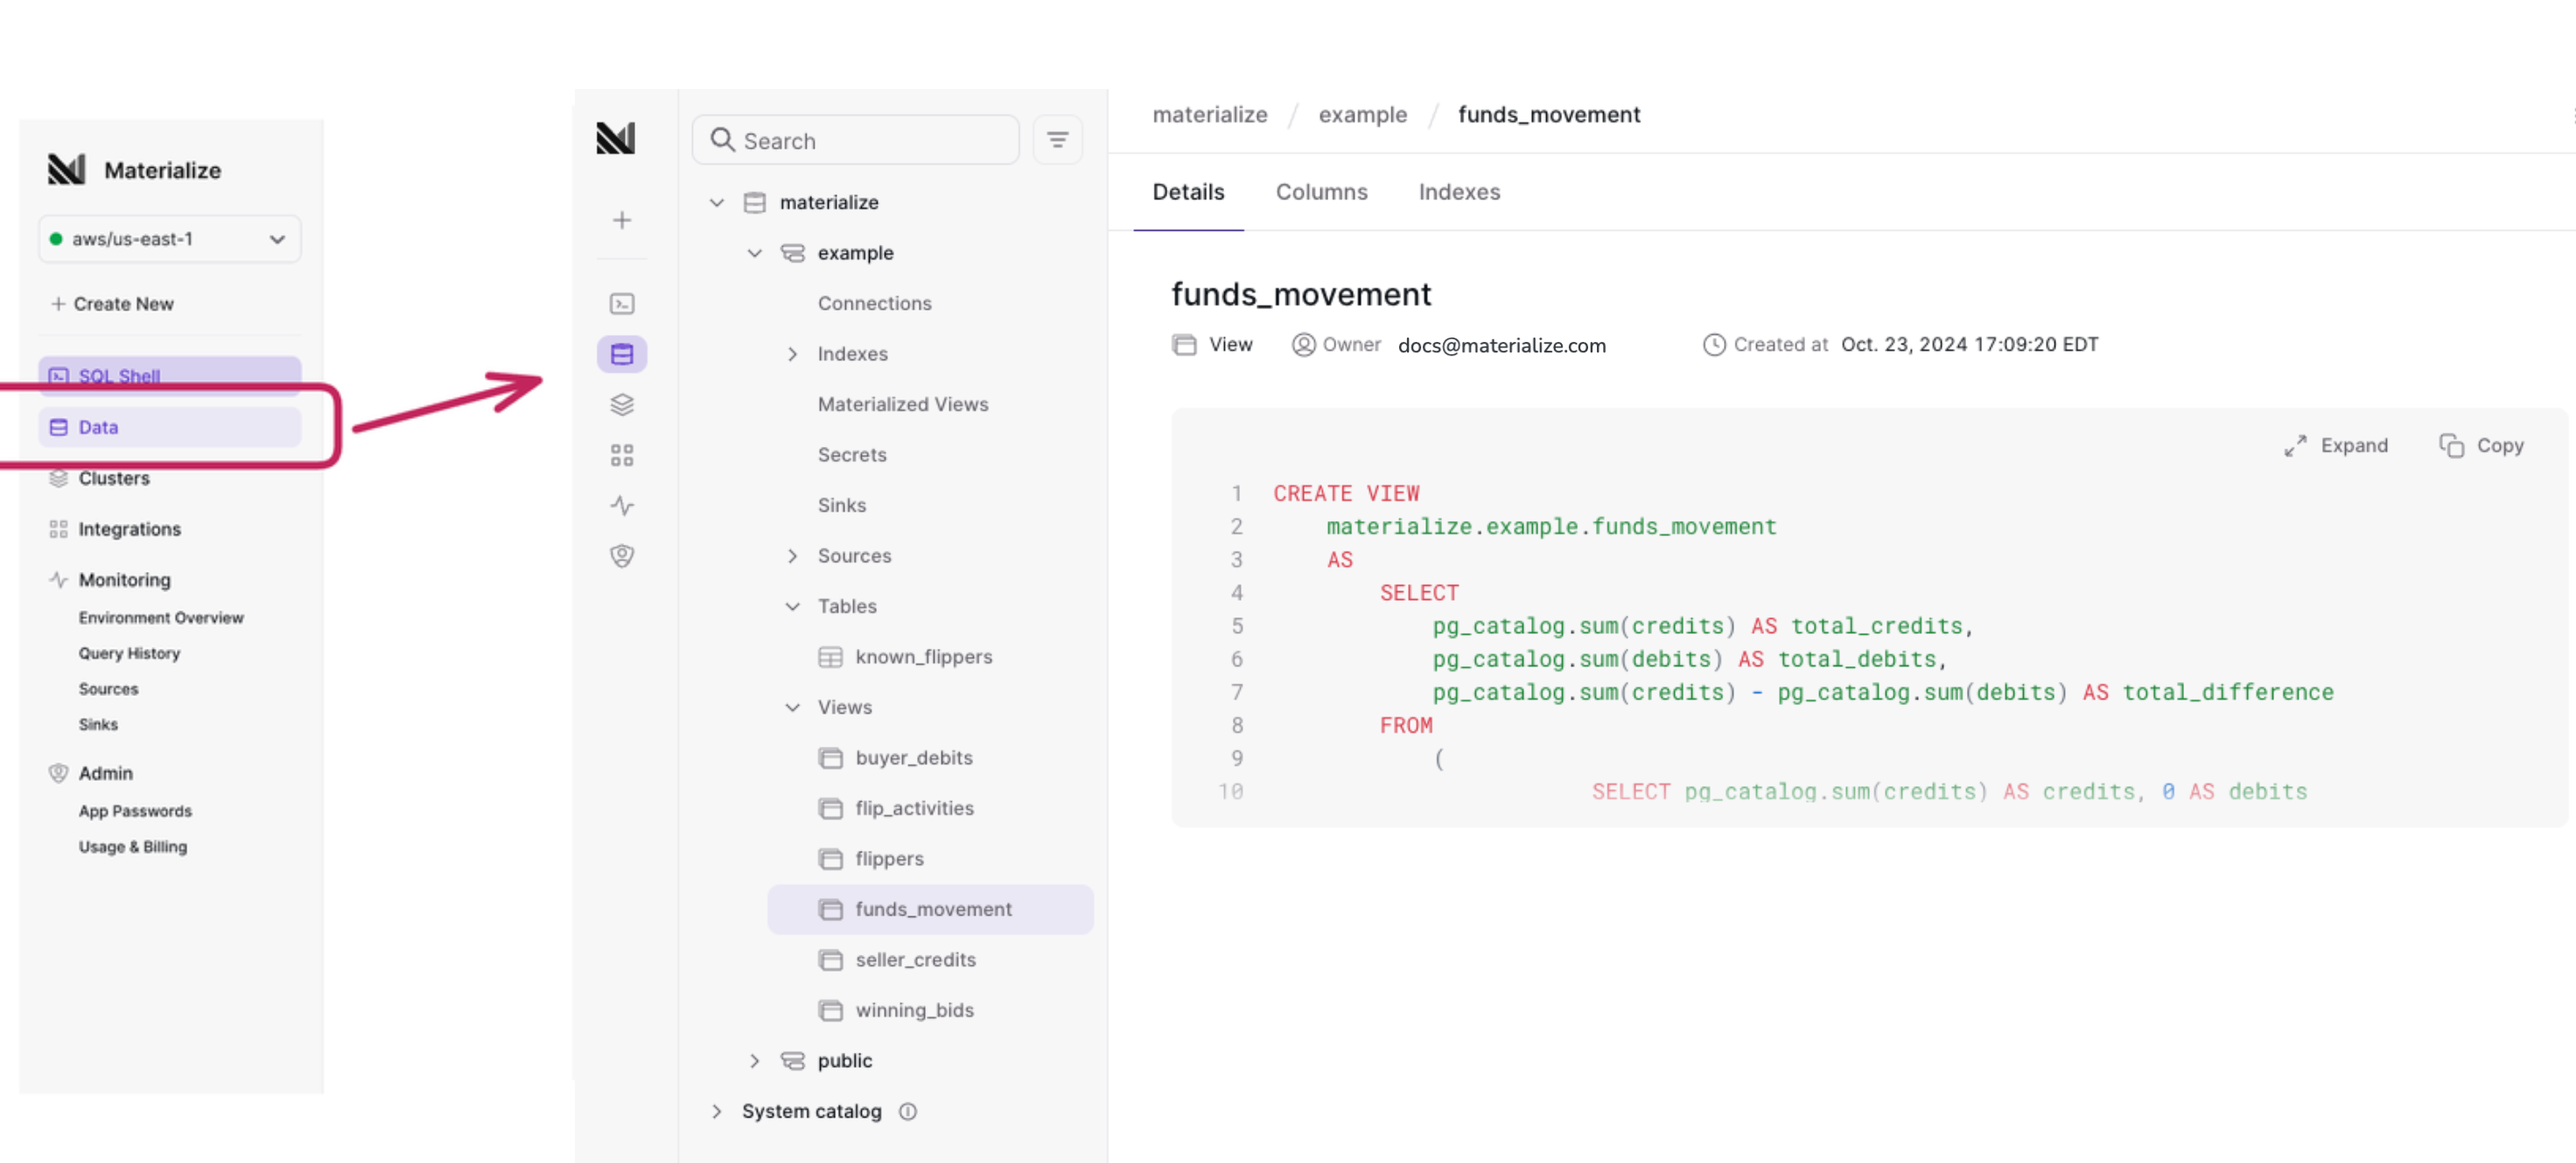
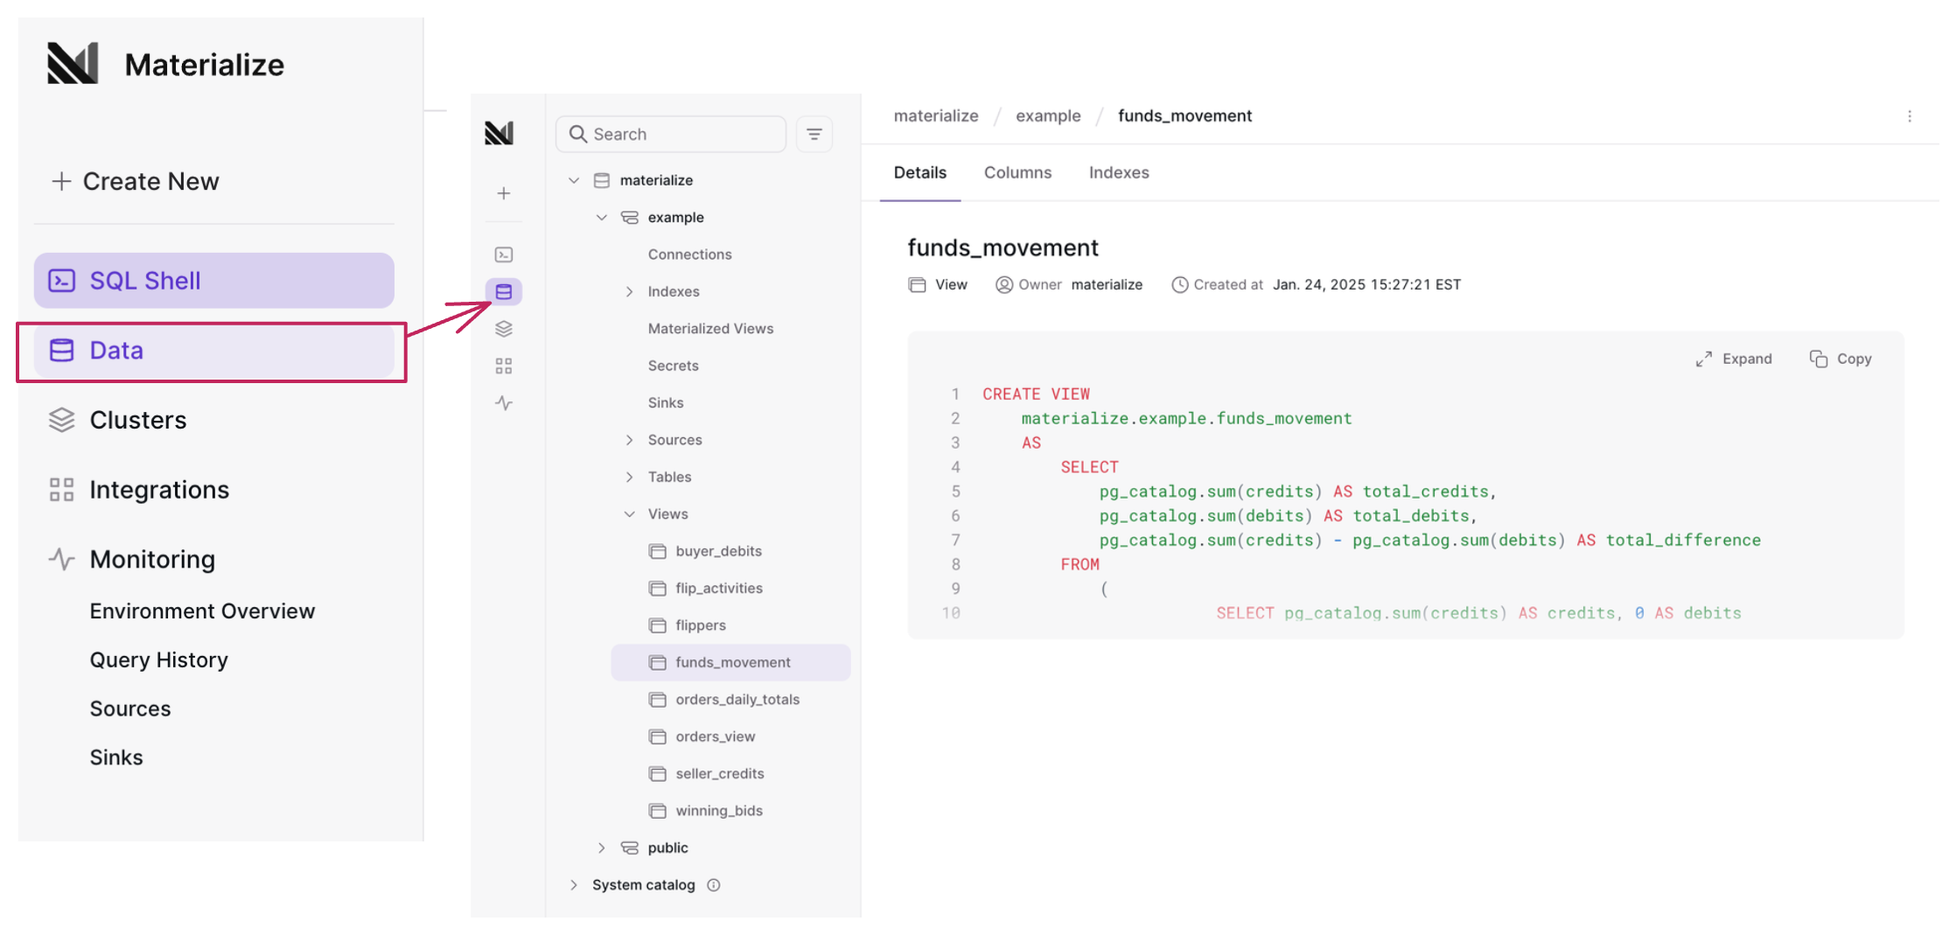
docs: update self-managed console section (#31187)

diff --git a/doc/user/content/console/_index.md b/doc/user/content/console/_index.md
@@ -11,20 +11,13 @@ menus:
 
 The Materialize Console is a graphical user
 interface for working with Materialize. From the Console, you can create and
-manage your clusters and sources, issue SQL queries, explore your objects, and
-view billing information.
+manage your clusters and sources, issue SQL queries, and explore your objects.
 
 ![Image of the Materialize Console](/images/console/console.png
 "Materialize Console")
 
-- **Create New**: Shortcut menu to the following screens:
-
-  - [**New cluster**](/console/create-new/#create-new-cluster) screens
-
-  - [**New source**](/console/create-new/#create-new-source) screens
-
-  - [**New app password**](/console/create-new/#create-new-app-password) screens
-
+- **Create New**: Shortcut menu to the **New Cluster** and **Create a Source**
+  screens.
 
 - [SQL Shell](/console/sql-shell/): Issue SQL queries.
 
@@ -34,11 +27,8 @@ view billing information.
 
 - [Integrations](/console/integrations/): Learn about the supported integrations.
 
-- [Monitoring](/console/monitoring/): Monitor your environment as well as access your query history.
+- [Monitoring](/console/monitoring/): Monitor your environment as well as access
+  your query history.
 
-- [Admin](/console/admin/): Manage client credentials and billing information.
-
-- [Connect](/console/connect/): View information needed to connect to
-  Materialize.
-
-- [User Profile](/console/user-profile/): Manage your user profile.
+- [User Profile](/console/user-profile/): Shortcut menu to the documentation,
+  Community slack, and Help Center.

diff --git a/doc/user/content/console/user-profile.md b/doc/user/content/console/user-profile.md
@@ -9,8 +9,8 @@ menu:
     identifier: console-user-profile
 ---
 
-You can manage your user profile and account settings from the Materialize
-Console.
+You can find links to the documentation, Materialize Community slack, and Help
+Center from the profile menu.
 
 ![Image of the user profile menu](/images/console/console-user-profile.png
 "User profile menu")
